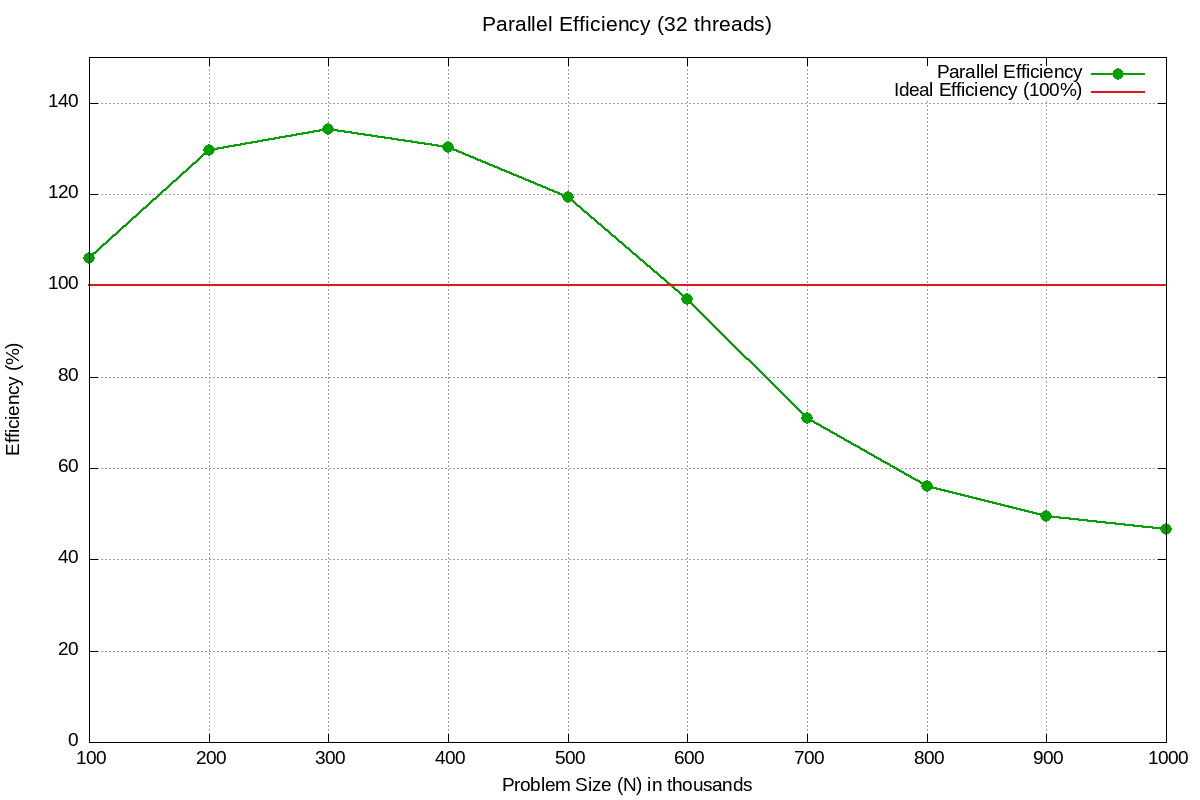
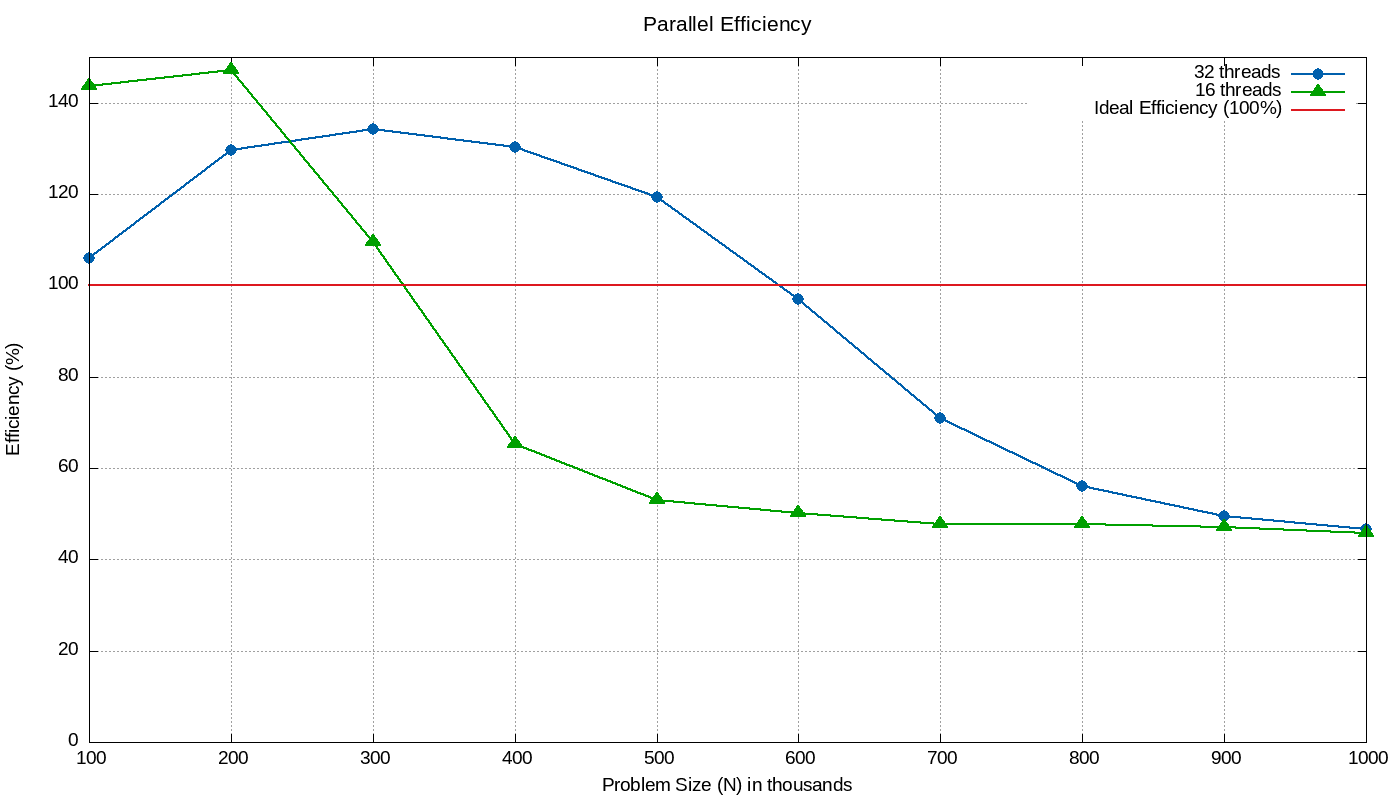
16 plot

diff --git a/plot_speedup.c b/plot_speedup.c
@@ -8,15 +8,17 @@
 
 #define MAX_FILES 100
 #define MAX_LINE 256
-#define NUM_THREADS 32
 
 typedef struct
 {
     int number;
     double seq_time;
-    double par_time;
-    double speedup;
-    double efficiency;
+    double par_time_32;
+    double par_time_16;
+    double speedup_32;
+    double speedup_16;
+    double efficiency_32;
+    double efficiency_16;
 } SpeedupData;
 
 // Function to extract time from a file
@@ -68,35 +70,42 @@ int main()
     int sizes[] = {100, 200, 300, 400, 500, 600, 700, 800, 900, 1000};
     int num_sizes = sizeof(sizes) / sizeof(sizes[0]);
 
-    printf("Reading timing data...\n");
-    printf("Number of threads: %d\n\n", NUM_THREADS);
+    printf("Reading timing data...\n\n");
 
     for (int i = 0; i < num_sizes; i++)
     {
         int num = sizes[i];
-        char seq_file[256], par_file[256];
+        char seq_file[256], par_file_32[256], par_file_16[256];
 
         sprintf(seq_file, "out_plot/bubble_seq.out.%d", num);
-        sprintf(par_file, "out_plot/bubble.out.%d", num);
+        sprintf(par_file_32, "out_plot/bubble.out.%d", num);
+        sprintf(par_file_16, "out_plot/bubble.out.%d_16", num);
 
         double seq_time = extract_time(seq_file);
-        double par_time = extract_time(par_file);
+        double par_time_32 = extract_time(par_file_32);
+        double par_time_16 = extract_time(par_file_16);
 
-        if (seq_time > 0 && par_time > 0)
+        if (seq_time > 0 && par_time_32 > 0 && par_time_16 > 0)
         {
             data[count].number = num;
             data[count].seq_time = seq_time;
-            data[count].par_time = par_time;
-            data[count].speedup = seq_time / par_time;
-            data[count].efficiency = (data[count].speedup / NUM_THREADS) * 100.0; // in percent
+            data[count].par_time_32 = par_time_32;
+            data[count].par_time_16 = par_time_16;
+            data[count].speedup_32 = seq_time / par_time_32;
+            data[count].speedup_16 = seq_time / par_time_16;
+            data[count].efficiency_32 = (data[count].speedup_32 / 32.0) * 100.0;
+            data[count].efficiency_16 = (data[count].speedup_16 / 16.0) * 100.0;
 
-            printf("N=%d: Sequential=%.6f s, Parallel=%.6f s, Speedup=%.2fx, Efficiency=%.2f%%\n",
-                   num, seq_time, par_time, data[count].speedup, data[count].efficiency);
+            printf("N=%d:\n", num);
+            printf("  32 threads: Speedup=%.2fx, Efficiency=%.2f%%\n",
+                   data[count].speedup_32, data[count].efficiency_32);
+            printf("  16 threads: Speedup=%.2fx, Efficiency=%.2f%%\n",
+                   data[count].speedup_16, data[count].efficiency_16);
             count++;
         }
         else
         {
-            printf("Warning: Could not read data for N=%d\n", num);
+            printf("Warning: Could not read complete data for N=%d\n", num);
         }
     }
 
@@ -117,12 +126,14 @@ int main()
         return 1;
     }
 
-    fprintf(data_fp, "# Problem_Size Sequential_Time Parallel_Time Speedup Efficiency(%%)\n");
+    fprintf(data_fp, "# N Seq_Time Par32 Par16 Speedup32 Speedup16 Eff32(%%) Eff16(%%)\n");
     for (int i = 0; i < count; i++)
     {
-        fprintf(data_fp, "%d %.6f %.6f %.6f %.6f\n",
-                data[i].number, data[i].seq_time, data[i].par_time,
-                data[i].speedup, data[i].efficiency);
+        fprintf(data_fp, "%d %.6f %.6f %.6f %.6f %.6f %.6f %.6f\n",
+                data[i].number, data[i].seq_time,
+                data[i].par_time_32, data[i].par_time_16,
+                data[i].speedup_32, data[i].speedup_16,
+                data[i].efficiency_32, data[i].efficiency_16);
     }
     fclose(data_fp);
     printf("\nData written to graph/speedup_data.txt\n");
@@ -135,17 +146,22 @@ int main()
         return 1;
     }
 
-    fprintf(gnuplot_speedup, "set terminal png size 1200,800 font 'Arial,14'\n");
+    fprintf(gnuplot_speedup, "set terminal png size 1400,800 font 'Arial,14'\n");
     fprintf(gnuplot_speedup, "set output 'graph/speedup.png'\n");
-    fprintf(gnuplot_speedup, "set title 'Speedup: Sequential vs Parallel Bubble Sort (%d threads)' font 'Arial,16'\n", NUM_THREADS);
+    fprintf(gnuplot_speedup, "set title 'Speedup: Sequential vs Parallel Bubble Sort' font 'Arial,16'\n");
     fprintf(gnuplot_speedup, "set xlabel 'Problem Size (N) in thousands' font 'Arial,14'\n");
     fprintf(gnuplot_speedup, "set ylabel 'Speedup (Sequential Time / Parallel Time)' font 'Arial,14'\n");
     fprintf(gnuplot_speedup, "set grid\n");
     fprintf(gnuplot_speedup, "set key top right\n");
+    fprintf(gnuplot_speedup, "set ytics 8\n");
     fprintf(gnuplot_speedup, "set style line 1 lc rgb '#0060ad' lt 1 lw 2 pt 7 ps 1.5\n");
-    fprintf(gnuplot_speedup, "set style line 2 lc rgb '#dd181f' lt 2 lw 2\n");
-    fprintf(gnuplot_speedup, "plot 'graph/speedup_data.txt' using 1:4 with linespoints ls 1 title 'Actual Speedup', \\\n");
-    fprintf(gnuplot_speedup, "     %d with lines ls 2 title 'Ideal Speedup (%dx)'\n", NUM_THREADS, NUM_THREADS);
+    fprintf(gnuplot_speedup, "set style line 2 lc rgb '#00a000' lt 1 lw 2 pt 9 ps 1.5\n");
+    fprintf(gnuplot_speedup, "set style line 3 lc rgb '#dd181f' lt 2 lw 2\n");
+    fprintf(gnuplot_speedup, "set style line 4 lc rgb '#ff9900' lt 2 lw 2\n");
+    fprintf(gnuplot_speedup, "plot 'graph/speedup_data.txt' using 1:5 with linespoints ls 1 title '32 threads (Actual)', \\\n");
+    fprintf(gnuplot_speedup, "     'graph/speedup_data.txt' using 1:6 with linespoints ls 2 title '16 threads (Actual)', \\\n");
+    fprintf(gnuplot_speedup, "     32 with lines ls 3 title '32 threads (Ideal)', \\\n");
+    fprintf(gnuplot_speedup, "     16 with lines ls 4 title '16 threads (Ideal)'\n");
     fclose(gnuplot_speedup);
     printf("Speedup gnuplot script written\n");
 
@@ -157,18 +173,20 @@ int main()
         return 1;
     }
 
-    fprintf(gnuplot_efficiency, "set terminal png size 1200,800 font 'Arial,14'\n");
+    fprintf(gnuplot_efficiency, "set terminal png size 1400,800 font 'Arial,14'\n");
     fprintf(gnuplot_efficiency, "set output 'graph/efficiency.png'\n");
-    fprintf(gnuplot_efficiency, "set title 'Parallel Efficiency (%d threads)' font 'Arial,16'\n", NUM_THREADS);
+    fprintf(gnuplot_efficiency, "set title 'Parallel Efficiency' font 'Arial,16'\n");
     fprintf(gnuplot_efficiency, "set xlabel 'Problem Size (N) in thousands' font 'Arial,14'\n");
     fprintf(gnuplot_efficiency, "set ylabel 'Efficiency (%%)' font 'Arial,14'\n");
     fprintf(gnuplot_efficiency, "set grid\n");
     fprintf(gnuplot_efficiency, "set key top right\n");
     fprintf(gnuplot_efficiency, "set yrange [0:150]\n");
-    fprintf(gnuplot_efficiency, "set style line 1 lc rgb '#00a000' lt 1 lw 2 pt 7 ps 1.5\n");
-    fprintf(gnuplot_efficiency, "set style line 2 lc rgb '#dd181f' lt 2 lw 2\n");
-    fprintf(gnuplot_efficiency, "plot 'graph/speedup_data.txt' using 1:5 with linespoints ls 1 title 'Parallel Efficiency', \\\n");
-    fprintf(gnuplot_efficiency, "     100 with lines ls 2 title 'Ideal Efficiency (100%%)'\n");
+    fprintf(gnuplot_efficiency, "set style line 1 lc rgb '#0060ad' lt 1 lw 2 pt 7 ps 1.5\n");
+    fprintf(gnuplot_efficiency, "set style line 2 lc rgb '#00a000' lt 1 lw 2 pt 9 ps 1.5\n");
+    fprintf(gnuplot_efficiency, "set style line 3 lc rgb '#dd181f' lt 2 lw 2\n");
+    fprintf(gnuplot_efficiency, "plot 'graph/speedup_data.txt' using 1:7 with linespoints ls 1 title '32 threads', \\\n");
+    fprintf(gnuplot_efficiency, "     'graph/speedup_data.txt' using 1:8 with linespoints ls 2 title '16 threads', \\\n");
+    fprintf(gnuplot_efficiency, "     100 with lines ls 3 title 'Ideal Efficiency (100%%)'\n");
     fclose(gnuplot_efficiency);
     printf("Efficiency gnuplot script written\n");
 
